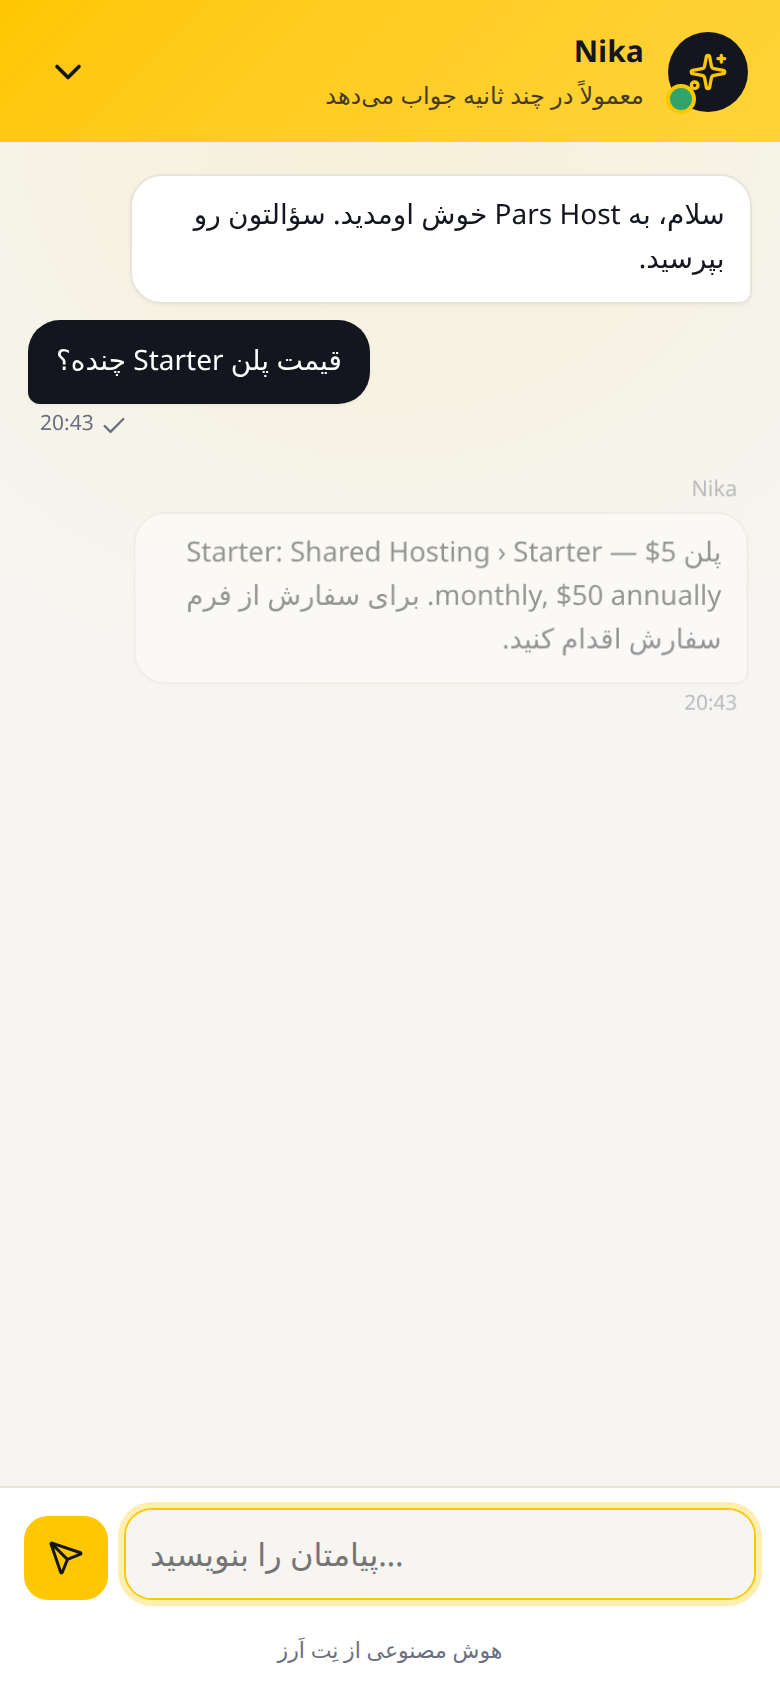
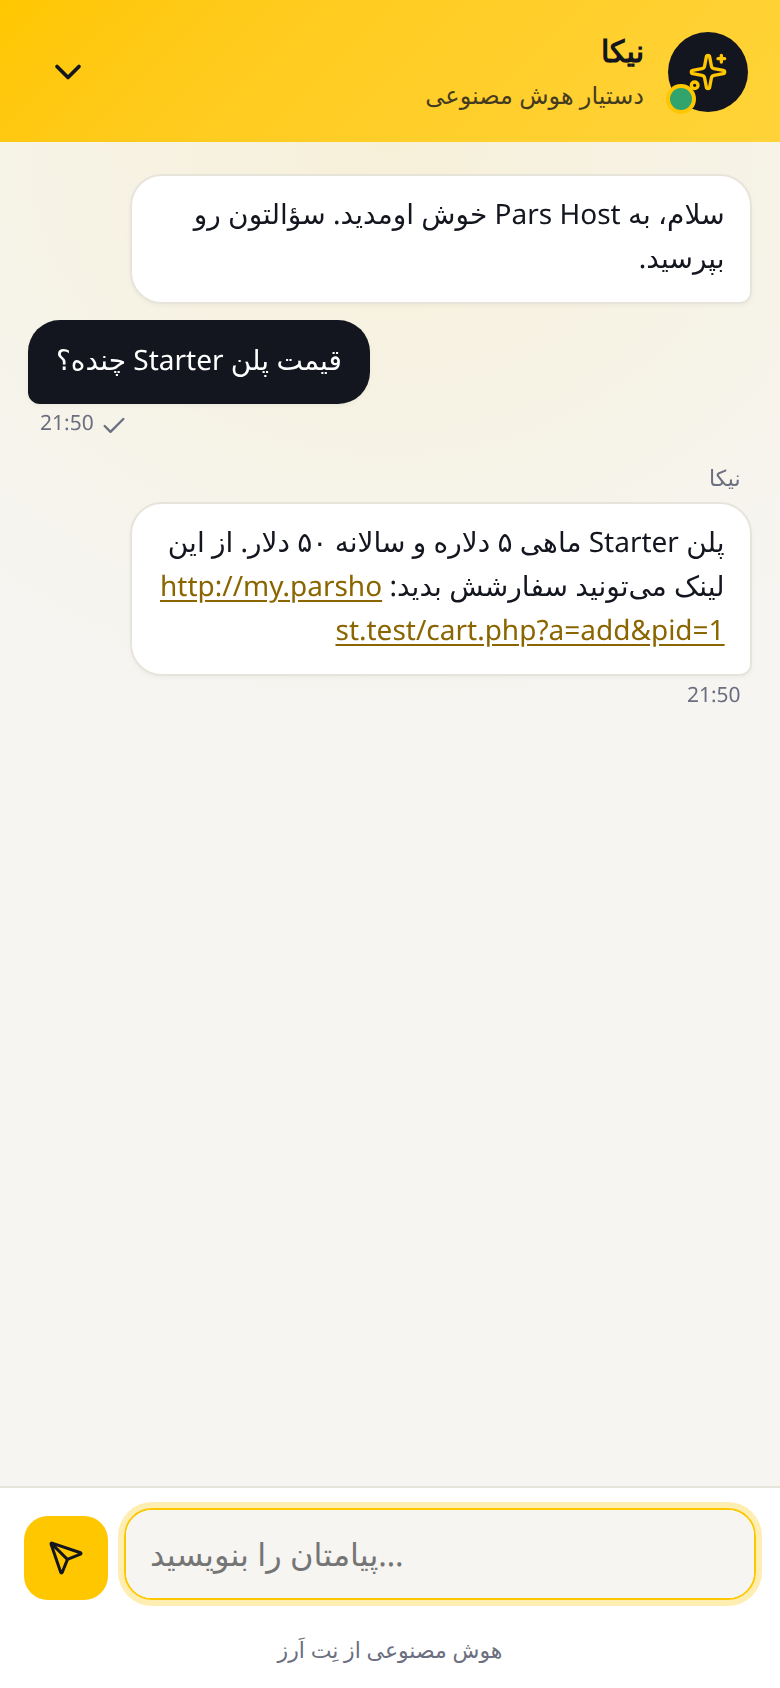
Say what the assistant is instead of promising a reply time (1.0.2)
The chat header status reads «دستیار هوش مصنوعی» / "AI assistant". The browser
suite now serves the client area as my.parshost.test and waits for animations,
so documentation screenshots show realistic links and settled bubbles.

diff --git a/tests/e2e/mock-gateway.php b/tests/e2e/mock-gateway.php
@@ -63,8 +63,11 @@ if ($path === '/api/ai/v1/chat/completions') {
     if (preg_match('/refund|money back|بازگشت|پول/iu', $last)) {
         $answer = ['action' => 'handoff', 'confidence' => 35, 'intent' => 'complaint', 'handoff_reason' => 'refund request',
             'reply' => $fa ? 'متأسفم که اینطور شد. پیامتون رو به همکارم دادم و همینجا جواب میده.' : 'I am sorry about that. I have passed this to a colleague, who will reply here.'];
-    } elseif (preg_match('/(Shared Hosting › Starter — [^|\n]+)/u', $system, $m) && preg_match('/starter|price|cost|much|قیمت|هزینه|چند/iu', $last)) {
-        $answer['reply'] = $fa ? 'پلن Starter: '.trim($m[1]).'. برای سفارش از فرم سفارش اقدام کنید.' : 'Our '.trim($m[1]).'.';
+    } elseif (preg_match('/Shared Hosting › Starter — \$(\d+) monthly, \$(\d+) annually[^\n]*order: (\S+)/u', $system, $m) && preg_match('/starter|price|cost|much|قیمت|هزینه|چند/iu', $last)) {
+        $faNum = function ($n) { return strtr($n, ['0' => '۰', '1' => '۱', '2' => '۲', '3' => '۳', '4' => '۴', '5' => '۵', '6' => '۶', '7' => '۷', '8' => '۸', '9' => '۹']); };
+        $answer['reply'] = $fa
+            ? 'پلن Starter ماهی '.$faNum($m[1]).' دلاره و سالانه '.$faNum($m[2]).' دلار. از این لینک میتونید سفارشش بدید: '.$m[3]
+            : 'Our Shared Hosting Starter plan is $'.$m[1].' a month or $'.$m[2].' a year. You can order it here: '.$m[3];
     } elseif (preg_match('/nameserver|نیم ?سرور|dns/iu', $last) && preg_match('/(ns1\.[a-z.]+)/', $system, $m)) {
         $answer['reply'] = $fa ? 'نیمسرورها را روی '.$m[1].' بگذارید.' : 'Please point your domain to '.$m[1].' and ns2.';
     } elseif (preg_match('/Support hours: ([^\n]+)/', $system, $m) && preg_match('/hour|open|ساعت/iu', $last)) {

diff --git a/modules/addons/netarz_ai/lang/farsi.php b/modules/addons/netarz_ai/lang/farsi.php
@@ -338,7 +338,7 @@ $_ADDONLANG['w_placeholder'] = 'پیامتان را بنویسید…';
 $_ADDONLANG['w_send'] = 'ارسال';
 $_ADDONLANG['w_sent'] = 'ارسال شد';
 $_ADDONLANG['w_seen'] = 'دیده شد';
-$_ADDONLANG['w_status_ai'] = 'معمولاً در چند ثانیه جواب میدهد';
+$_ADDONLANG['w_status_ai'] = 'دستیار هوش مصنوعی';
 $_ADDONLANG['w_status_team'] = 'همکاران ما همینجا جواب میدهند';
 $_ADDONLANG['w_status_waiting'] = 'منتظر یکی از همکاران';
 $_ADDONLANG['w_status_human'] = 'آنلاین';

diff --git a/modules/addons/netarz_ai/lang/english.php b/modules/addons/netarz_ai/lang/english.php
@@ -337,7 +337,7 @@ $_ADDONLANG['w_placeholder'] = 'Write your message…';
 $_ADDONLANG['w_send'] = 'Send';
 $_ADDONLANG['w_sent'] = 'Sent';
 $_ADDONLANG['w_seen'] = 'Seen';
-$_ADDONLANG['w_status_ai'] = 'Usually replies in seconds';
+$_ADDONLANG['w_status_ai'] = 'AI assistant';
 $_ADDONLANG['w_status_team'] = 'Our team replies here';
 $_ADDONLANG['w_status_waiting'] = 'A colleague will join shortly';
 $_ADDONLANG['w_status_human'] = 'Online now';

diff --git a/modules/addons/netarz_ai/lib/Schema.php b/modules/addons/netarz_ai/lib/Schema.php
@@ -8,7 +8,7 @@ use WHMCS\Database\Capsule;
 /** Creates, upgrades and drops the module's tables. Every table is prefixed mod_netarz_ai_. */
 class Schema
 {
-    public const VERSION = '1.0.1';
+    public const VERSION = '1.0.2';
 
     public const TABLES = [
         'mod_netarz_ai_settings',

diff --git a/README.md b/README.md
@@ -7,7 +7,7 @@
 AI live chat and AI ticket replies for WHMCS, powered by the NetArz AI API (GPT, Claude, Gemini, DeepSeek). Your NetArz AI credit is shown right in the WHMCS admin.
 
 [![License: MIT](https://img.shields.io/badge/license-MIT-ffc700?style=flat-square&labelColor=14161f)](LICENSE)
-[![Version](https://img.shields.io/badge/version-1.0.1-ffc700?style=flat-square&labelColor=14161f)](https://github.com/netarz/netarz-ai-whmcs/releases)
+[![Version](https://img.shields.io/badge/version-1.0.2-ffc700?style=flat-square&labelColor=14161f)](https://github.com/netarz/netarz-ai-whmcs/releases)
 [![WHMCS](https://img.shields.io/badge/WHMCS-8.0%2B-ffc700?style=flat-square&labelColor=14161f)](#requirements)
 [![PHP](https://img.shields.io/badge/PHP-7.4%2B-ffc700?style=flat-square&labelColor=14161f&logo=php&logoColor=white)](#requirements)
 [![Tests](https://img.shields.io/github/actions/workflow/status/netarz/netarz-ai-whmcs/tests.yml?branch=main&label=tests&style=flat-square&labelColor=14161f&color=ffc700)](https://github.com/netarz/netarz-ai-whmcs/actions)
@@ -73,7 +73,7 @@ AI live chat and AI ticket replies for WHMCS, powered by the NetArz AI API (GPT,
 
 ## نصب در پنج قدم
 
-1. فایل `netarz-ai-whmcs-1.0.1.zip` را از [صفحهٔ نسخهها (Releases)](https://github.com/netarz/netarz-ai-whmcs/releases/latest) دانلود کنید و پوشهٔ
+1. فایل `netarz-ai-whmcs-1.0.2.zip` را از [صفحهٔ نسخهها (Releases)](https://github.com/netarz/netarz-ai-whmcs/releases/latest) دانلود کنید و پوشهٔ
    `modules/addons/netarz_ai` را در همان مسیرِ نصب WHMCS خودتان بارگذاری کنید.
 2. در پنل مدیریت WHMCS به **System Settings ← Addon Modules** بروید، «NetArz AI» را فعال کنید و به نقشهای مدیریتیِ لازم
    دسترسی بدهید.
@@ -221,7 +221,7 @@ It runs on the [NetArz AI API](https://netarz.ir/ai-api?utm_source=github&utm_me
 
 ### Install
 
-1. Download `netarz-ai-whmcs-1.0.1.zip` from [Releases](https://github.com/netarz/netarz-ai-whmcs/releases/latest) and upload
+1. Download `netarz-ai-whmcs-1.0.2.zip` from [Releases](https://github.com/netarz/netarz-ai-whmcs/releases/latest) and upload
    `modules/addons/netarz_ai` into your WHMCS installation.
 2. **System Settings → Addon Modules**: activate *NetArz AI* and grant access to the admin roles that need it.
 3. Create an API key (`sk-ntz-v1-…`) in the [NetArz AI panel](https://netarz.ir/ai?utm_source=github&utm_medium=referral&utm_campaign=netarz-ai-whmcs&utm_content=english) and add credit.

diff --git a/CHANGELOG.md b/CHANGELOG.md
@@ -1,5 +1,9 @@
 # Changelog
 
+## 1.0.2 — 2026-09-27
+
+- The chat header under the assistant's name now says «دستیار هوش مصنوعی» / "AI assistant" instead of promising a reply time.
+
 ## 1.0.1 — 2026-09-27
 
 - Links from the WHMCS admin back to netarz.ir (key, top-up, docs, panel, low-credit email) carry
